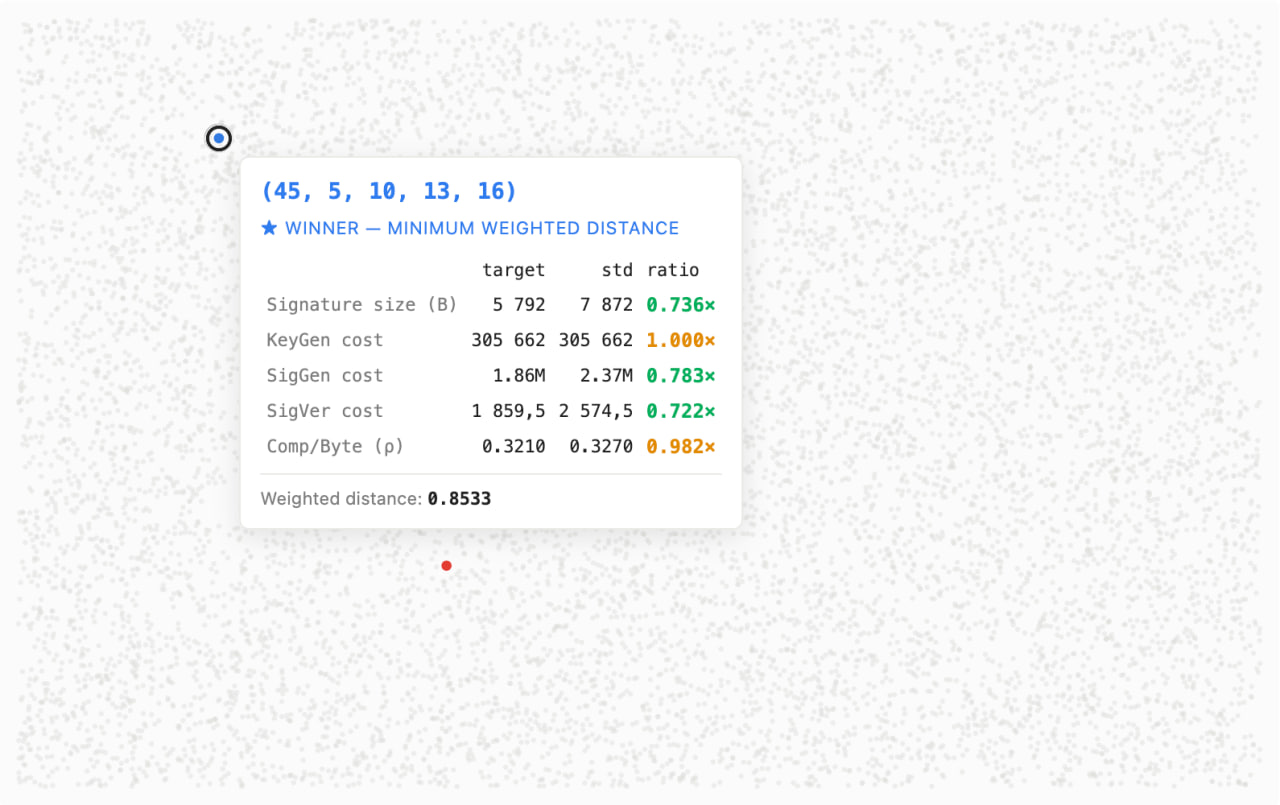
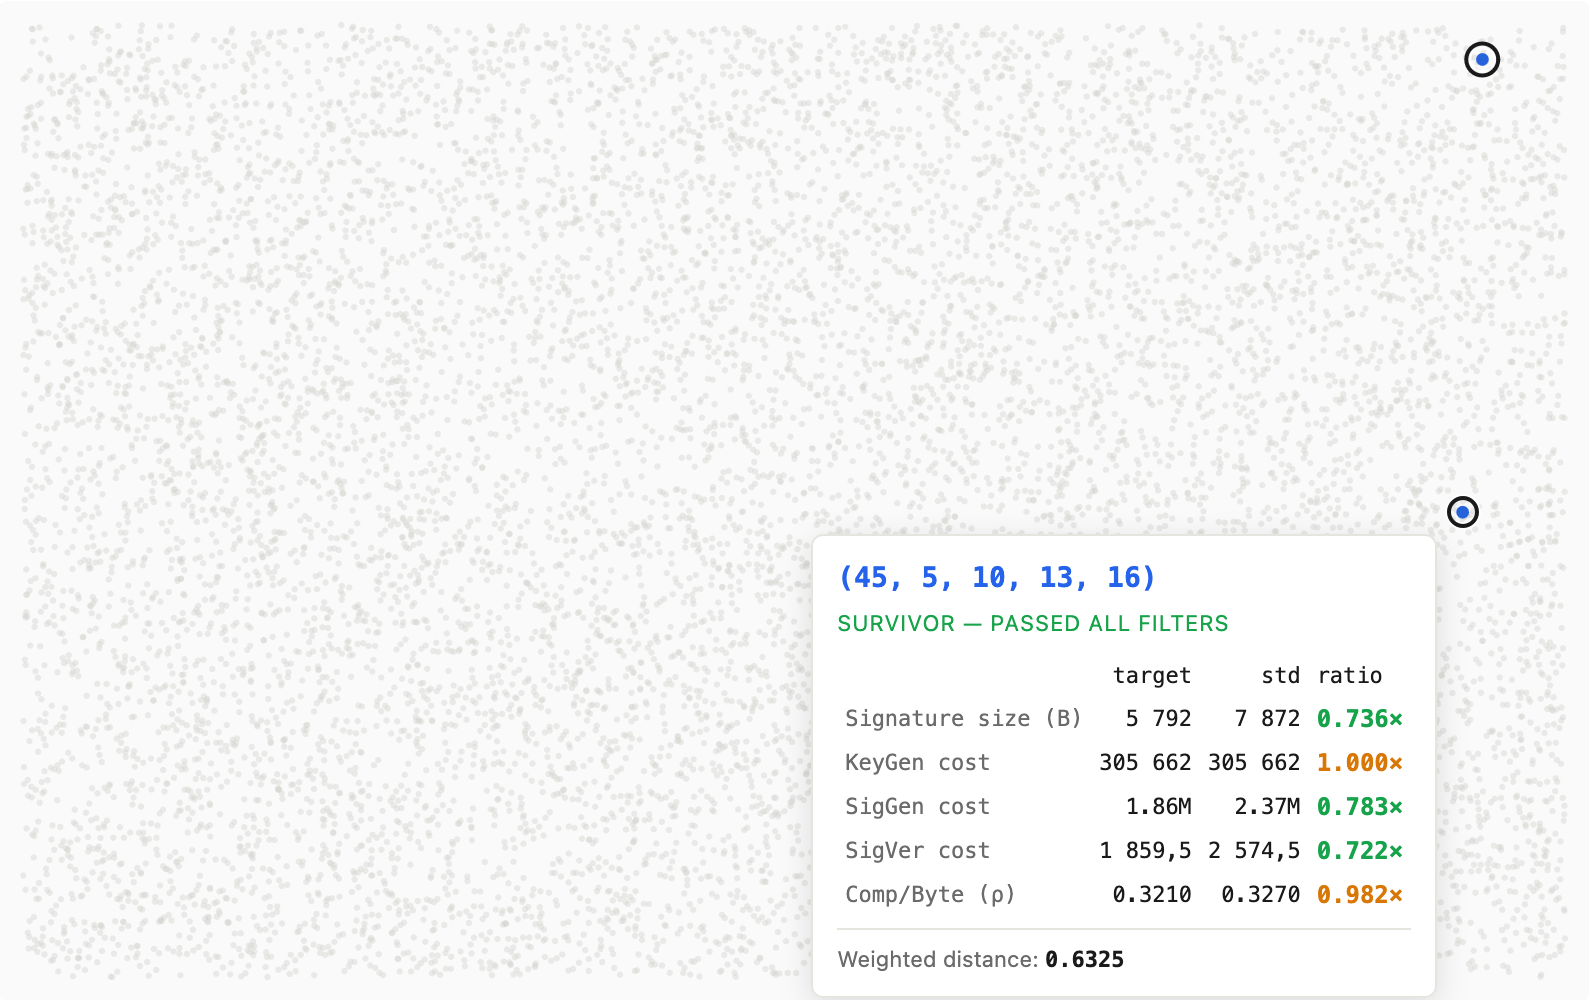
update document search section

diff --git a/document/content/3-search.tex b/document/content/3-search.tex
@@ -279,7 +279,118 @@ The resulting values are shown in Table~\ref{tab:euclidean_candidate_metrics_cas
     \end{tabular}
 \end{table}
 
-Comparing the two cases, the resulting metrics differ noticeably. The first case yields more balanced costs across the board, while the second case clearly favours signature size and verification at the expense of a heavier signing operation - exactly the trade-off we asked the weights to enforce.
+Comparing the two cases, the resulting metrics differ noticeably. The first case yields more balanced costs across the board, while the second case clearly favours signature size and verification at the expense of a heavier signing operation - exactly the trade-off we asked the weights to enforce. 
+
+\subsection{Metric-Normalized Weighted Distance} \label{sec:normalized-weights}
+
+The weighted distance introduced in Section~\ref{sec:decisional-weights} correctly encodes relative priorities when the five ratio axes $\widetilde{X}_i$ vary over comparable ranges.
+In practice, however, the filter pipeline disturbs this assumption.
+Consider the signature-size filter: after it is applied with a tight coefficient $X_{\text{size}} \ll 1$, every surviving candidate has a ratio $\widetilde{X}_{\text{size}}$ that lies in a narrow band close to $X_{\text{size}}$.
+The range of $\widetilde{X}_{\text{size}}$ values across survivors is therefore small relative to the variation of cost metrics such as $\widetilde{X}_{\text{kg}}$ or $\widetilde{X}_{\text{sg}}$, which the filter may leave nearly unconstrained.
+As a result, the size term contributes almost the same value to $d(P)$ for every candidate in the pool, regardless of the weight $p_{\text{size}}$ attached to it.
+The ranking is then dominated by the high-variance axes, and increasing $w_{\text{size}}$ produces little to no change in which candidate is selected.
+
+The remedy is to remove the scale imbalance before applying the weights.
+For each metric $i$ and each surviving candidate $P_j$ in the current pool, define the cross-pool minimum and maximum of the ratios:
+
+\begin{equation}
+    m_i = \min_j \widetilde{X}_i(P_j), \qquad
+    M_i = \max_j \widetilde{X}_i(P_j).
+    \label{eq:metric_range}
+\end{equation}
+
+The \emph{metric-normalized ratio} of candidate $P$ on axis $i$ is then
+
+\begin{equation}
+    \widehat{X}_i(P) = \frac{\widetilde{X}_i(P) - m_i}{M_i - m_i},
+    \label{eq:metric_norm}
+\end{equation}
+
+which maps every axis to $[0, 1]$ across the survivor pool, with $\widehat{X}_i = 0$ identifying the best-performing candidate on that axis and $\widehat{X}_i = 1$ the worst-performing one.
+
+Replacing $\widetilde{X}_i$ with $\widehat{X}_i$ in Equation~\eqref{eq:weighted_euclidean_distance} yields the \emph{metric-normalized weighted Euclidean distance}:
+
+\begin{equation}
+    d(P) = \sqrt{
+        p_{\text{size}}\,\widehat{X}_{\text{size}}^2 +
+        p_{\text{kg}}\,\widehat{X}_{\text{kg}}^2 +
+        p_{\text{sg}}\,\widehat{X}_{\text{sg}}^2 +
+        p_{\text{sv}}\,\widehat{X}_{\text{sv}}^2 +
+        p_{\text{cb}}\,\widehat{X}_{\text{cb}}^2
+    },
+    \label{eq:normalized_weighted_distance}
+\end{equation}
+
+where the $p_i$ are the normalized weight coefficients from Equation~\eqref{eq:weight_normalization}.
+The winner is still the candidate minimising $d(P)$, but now the weight $p_i$ faithfully controls how much axis $i$ influences the ranking: because every $\widehat{X}_i$ spans the same $[0, 1]$ interval, a coefficient $p_{\text{size}} = 0.5$ means that signature size drives exactly half of the squared distance, independently of how tightly the size filter was set.
+
+\paragraph{Note:}
+The normalization is computed fresh from the survivors after each change to the filter coefficients.
+This means that the same weight vector $\mathbf{w}$ can produce a different winner when the filter is tightened, because the pool shrinks and the per-axis ranges change accordingly.
+This behaviour is intentional: the weights express relative importance \emph{within the feasible region}, and that region is itself defined by the filter.
+
+Consider the following filtering parameters and weights set for comparison of methods for finding the shortest vector with weights: 
+
+\begin{itemize}
+    \item Filtering parameters: $X_{\text{size}} = 0.75, \ X_{\text{kg}} = 5, \ X_{\text{sg}} = 5, \ X_{\text{sv}} = 1.5, \ X_{\text{cb}} = 1$;
+    \item Weights coefficients: $w_{\text{size}} = 5, \ w_{\text{kg}} = 1.5, \ w_{\text{sg}} = 1.5, \ w_{\text{sv}} = 2, \ w_{\text{cb}} = 1$.
+\end{itemize}
+
+The resulting best candidates for each method shown in the Table~\ref{tab:distance_method_comparison}.
+
+\begin{table}[htbp]
+\centering
+\small
+\raggedright
+\caption{Comparison between the Best Candidates under the Regular Weighted and Metric-Normalised Weighted Distance Criteria}
+\label{tab:distance_method_comparison}
+\resizebox{\textwidth}{!}{%
+\begin{tabular}{lrrrrr}
+\toprule
+\textbf{Metric} &
+\textbf{Standard Baseline} &
+\textbf{Metric-Normalized} &
+\textbf{Ratio to Std.} &
+\textbf{Regular Weighted} &
+\textbf{Ratio to Std.} \\
+\midrule
+Parameters $(h, d, k, a, w)$  & $(63, 7, 14, 12, 16)$ & $(40, 4, 9, 16, 16)$  & --             & $(45, 5, 12, 11, 16)$ & --             \\
+Signature Size (Bytes)        & $7{,}872$             & $5{,}360$             & $0.6810\times$ & $5{,}856$             & $0.7440\times$ \\
+Key Generation Cost           & $305{,}662.0$         & $611{,}326.0$         & $2.0000\times$ & $305{,}662.0$         & $1.0000\times$ \\
+Signing Cost                  & $2{,}370{,}000.0$     & $4{,}800{,}000.0$     & $2.0253\times$ & $1{,}630{,}000.0$     & $0.6878\times$ \\
+Verification Cost             & $2{,}574.5$           & $1{,}578.0$           & $0.6130\times$ & $1{,}867.5$           & $0.7254\times$ \\
+Compression per Byte ($\rho$) & $0.327000$            & $0.294400$            & $0.9003\times$ & $0.318900$            & $0.9752\times$ \\
+\bottomrule
+\end{tabular}%
+}
+\end{table}
+
+Comparing the two cases, the resulting metrics are different.
+The regular weighted distance chooses more balanced best candidate, while the metric-normilized weighted distance selects candidate with noticeably smaller signature size, trading the key and signature generation costs.
+
+The outcome of each distance method shown in the Figure~\ref{fig:distance_result_comparison}.
+
+
+\begin{figure}[h!]
+    \centering
+    \begin{subfigure}[b]{0.49\textwidth}
+        \centering
+        \includegraphics[width=\textwidth]{content/images/comparison_regular.png}
+        \caption{Regular Weighted Distance Result}
+        \label{fig:regular-weighted}
+    \end{subfigure}
+    \hfill
+    \begin{subfigure}[b]{0.49\textwidth}
+        \centering
+        \includegraphics[width=\textwidth]{content/images/comparison_normalized.png}
+        \caption{Metric-Normalised Weighted Distance Result}
+        \label{fig:metric-normalised}
+    \end{subfigure}
+    \caption{Visualization of each Distance Method Result for Finding the Shortest Vector}
+    \label{fig:distance_result_comparison}
+\end{figure}
+
+
 
 \section{Recommended Candidate Tuple} \label{sec:ideal-examples}
 
@@ -321,29 +432,26 @@ As the table makes clear, the two survivors represent distinct operational trade
     \item Candidate~2 pushes further on size and verification, but at a concrete price - its signing cost exceeds the standard by more than $1.5\times$, making it suitable only in contexts where signing latency is secondary.
 \end{itemize}
 
-
-To determine which candidate is preferable, we specify the optimization priorities via the weight coefficients introduced in Section~\ref{sec:decisional-weights}. We consider two illustrative settings:
-\begin{itemize}
-    \item \textbf{Case 1:} $w_{\text{size}} = w_{\text{kg}} = w_{\text{sg}} = w_{\text{sv}} = w_{\text{cb}} = 1$;
-    \item \textbf{Case 2:} $w_{\text{size}} = 15, w_{\text{kg}} = 0.1, w_{\text{sg}} = 0.1, w_{\text{sv}} = 15, w_{\text{cb}} = 0.1$.
-\end{itemize}
-
-Under the uniform weights of Case~1, Candidate~1 achieves the smallest weighted distance and is therefore selected as the optimal configuration. The search outcome is visualized in Figure~\ref{fig:ideal_distance_plot_1}.
-
+After finding the shortest vector, we get that the Candidate~1 is the best, having the smallest distance.
+The results of search presented in the Figure~\ref{fig:ideal_distance_plot}.
 \begin{figure}[htbp]
 \centering
-\includegraphics[width=0.75\textwidth]{content/images/ideal_candidate_case_1.png}
-\caption{Visualization of the search process under balanced weights (Case~1).}
-\label{fig:ideal_distance_plot_1}
+    \begin{subfigure}[b]{0.49\textwidth}
+        \centering
+        \includegraphics[width=\textwidth]{content/images/ideal_candidate_case_1.png}
+        \caption{Balanced Candidate}
+        \label{fig:regular-weighted}
+    \end{subfigure}
+    \hfill
+    \begin{subfigure}[b]{0.49\textwidth}
+        \centering
+        \includegraphics[width=\textwidth]{content/images/ideal_candidate_case_2_.png}
+        \caption{The Best Candidate}
+        \label{fig:metric-normalised}
+    \end{subfigure}
+        \caption{The Best Candidate}
+\caption{Visualization of Found Candidates After the Search}
+\label{fig:ideal_distance_plot}
 \end{figure}
 
-Under Case~2, the heavy penalties attached to size and verification are sufficient to overcome Candidate~2's signing-cost disadvantage: its gains on the two prioritized axes yield a strictly shorter weighted distance than Candidate~1, shifting the optimum accordingly. This outcome is shown in Figure~\ref{fig:ideal_distance_plot_2}.
-
-\begin{figure}[htbp]
-\centering
-\includegraphics[width=0.75\textwidth]{content/images/ideal_candidate_case_2.png}
-\caption{Visualization of the search process under size- and verification-weighted priorities (Case~2).}
-\label{fig:ideal_distance_plot_2}
-\end{figure}
-
-The interactive visualization used to produce Figure~\ref{fig:ideal_distance_plot_1} and Figure~\ref{fig:ideal_distance_plot_2} is publicly available at \url{https://mjthatch.github.io/SPHINCS-Parameters/site/}.
+The interactive visualization used to produce Figure~\ref{fig:distance_result_comparison}, Figure~\ref{fig:ideal_distance_plot} is publicly available at \url{https://mjthatch.github.io/SPHINCS-Parameters/site/}.
